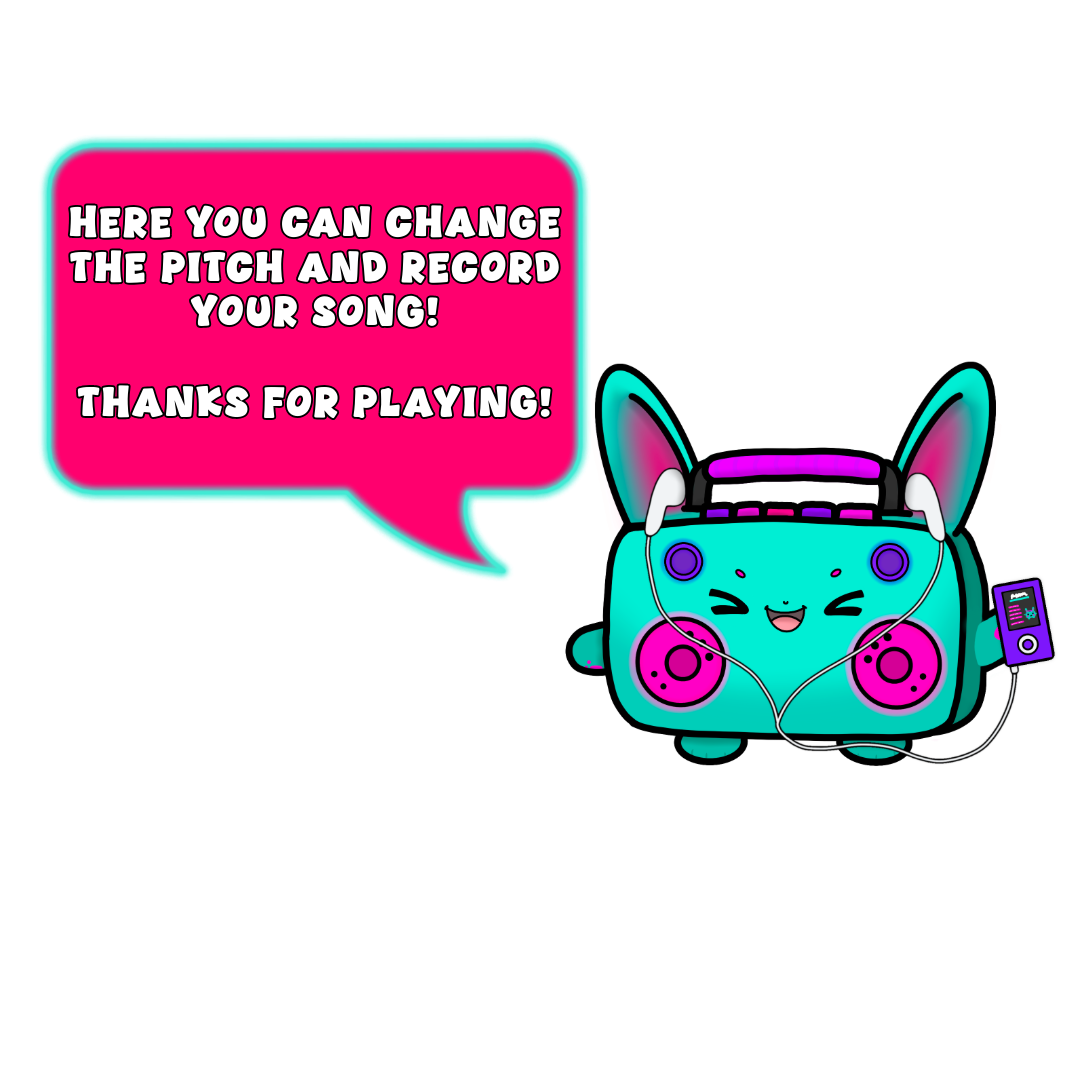
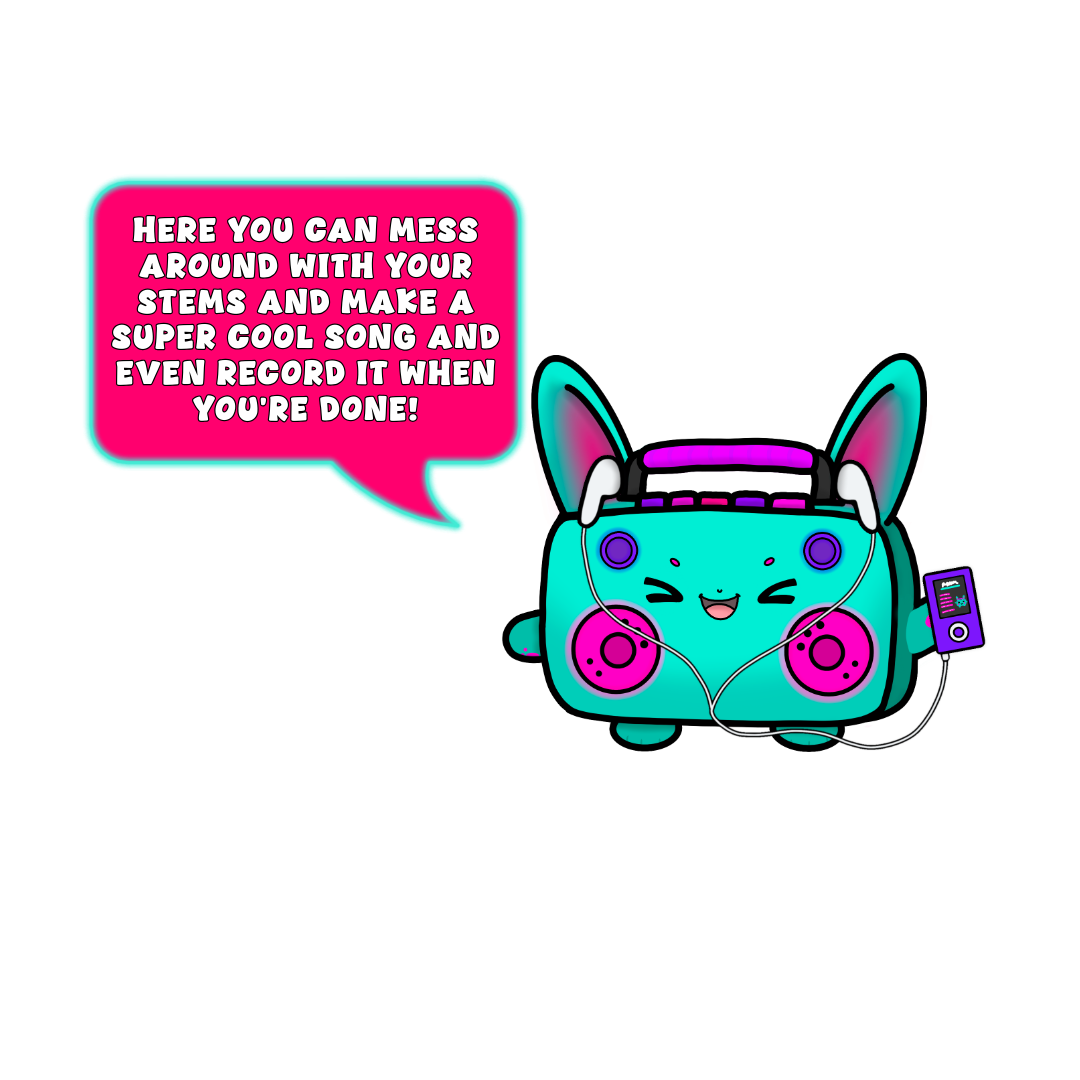
Co-authored-by: llaurenmoreno <llaurenmoreno@users.noreply.github.com>

Changed region(s): [[0.0306, 0.1222, 0.9778, 0.7333]]

diff --git a/CYOAUdio/sketch1.js b/CYOAUdio/sketch1.js
@@ -33,6 +33,7 @@ let boombox2;
 let titleBg;
 let instrumentBg;
 let state = 0; // 0: Title, 1: Instructions, 2: Guitar, 3: Drums, 4: Piano, 5: Mix
+let isAllPlaying = false;
 let bbpiano, bbdrums, bbguitar,bbmaster,bbintro;
 
 let totalMovement = 100;
@@ -125,9 +126,9 @@ function setup() {
   recorder.setInput(masterGain);
   soundFile = new p5.SoundFile();
 
-  masterVolumeSlider = createSlider(0, 1, 0.5, 0.01);
+  masterVolumeSlider = createSlider(0, 1, 1.0, 0.01);
   masterVolumeSlider.size(500);
-  masterVolumeSlider.input(() => snapSlider(masterVolumeSlider, 0.5));
+  masterVolumeSlider.input(() => snapSlider(masterVolumeSlider, 1.0));
   masterVolumeSlider.hide();
 
   masterPitchSlider = createSlider(0.5, 1.5, 1.0, 0.01);
@@ -197,6 +198,7 @@ function draw() {
     text("Bunnybox\nStudio", width / 2, scaleY(200));
     textSize(18);
     text("Move your mouse or press any key to begin", width / 2, scaleY(370));
+    resetMixSettings();
   }
 
   if (state === 1) {
@@ -204,24 +206,28 @@ function draw() {
     fill(255);
     textSize(64);
     text("Instructions", width / 2, scaleY(100));
-    image(bbintro, scaleX(400), scaleY(100), scaleX(700), scaleY(700));
+    image(bbintro, scaleX(400), scaleY(100), scaleX(650), scaleY(650));
+    resetMixSettings();
 
   }
 
   if (state === 2) {
     drawInstrumentPage("Drums", drumUI);
     image(bbdrums, scaleX(525), scaleY(50), scaleX(900), scaleY(900));
+    resetMixSettings();
   }
 
   if (state === 3) {
     drawInstrumentPage("Piano", pianoUI);
     image(bbpiano, scaleX(525), scaleY(50), scaleX(900), scaleY(900));
+    resetMixSettings();
 
   }
 
   if (state === 4) {
     drawInstrumentPage("Guitar", guitarUI);
     image(bbguitar, scaleX(525), scaleY(50), scaleX(900), scaleY(900));
+    resetMixSettings();
 
   }
 
@@ -230,7 +236,7 @@ function draw() {
     textSize(64);
     fill(255);
     text("Mixing Booth", width / 2, scaleY(80));
-    image(bbmaster, scaleX(800), scaleY(125), scaleX(700), scaleY(700));
+    image(bbmaster, scaleX(700), scaleY(125), scaleX(800), scaleY(800));
 
     masterGain.amp(masterVolumeSlider.value());
 
@@ -323,6 +329,7 @@ function toggleStem(row, soundArray, index, uiArray) {
       }
     }
     soundArray[index].play();
+    soundArray[index].amp(0.5);
     row.playButton.html("Stop");
     row.playing = true;
   } else {
@@ -338,6 +345,7 @@ function toggleIndividualStem(row, sound) {
 
   if (!row.playing) {
     sound.play();
+    sound.amp(0.5);
     row.playButton.html("Stop");
     row.playing = true;
   } else {
@@ -410,6 +418,7 @@ function nextScreen() {
 
 function prevScreen() {
   stopAllSounds();
+  resetMixSettings();
   if (state > 0) state--;
   updateUI();
 }
@@ -428,13 +437,29 @@ function isAnyChecked(uiArray) {
 
 function playAllSelectedStems() {
   userStartAudio();
-  for (let row of mixUI) {
-    if (row.sound) {
-      row.sound.stop();
-      row.sound.play();
-      row.playButton.html("Stop");
-      row.playing = true;
+  if (!isAllPlaying) {
+    // Play all stems
+    for (let row of mixUI) {
+      if (row.sound) {
+        row.sound.stop();
+        row.sound.play();
+        row.playButton.html("Stop");
+        row.playing = true;
+      }
     }
+    playAllButton.html("Stop All Stems");
+    isAllPlaying = true;
+  } else {
+    // Stop all stems
+    for (let row of mixUI) {
+      if (row.sound && row.sound.isPlaying()) {
+        row.sound.stop();
+      }
+      row.playButton.html("Play");
+      row.playing = false;
+    }
+    playAllButton.html("Play All Stems");
+    isAllPlaying = false;
   }
 }
 
@@ -506,6 +531,7 @@ function buildMixingUI() {
     row.gainNode.connect(masterGain);
     row.sound.disconnect();
     row.sound.connect(row.gainNode);
+    row.sound.amp(0.5);
 
     row.playButton = createButton("Play");
     row.playButton.size(70, 40);
@@ -517,10 +543,10 @@ function buildMixingUI() {
     row.label.style('font-family', 'Montserrat, sans-serif');
     row.label.style('font-weight', 'bold');
 
-    row.volSlider = createSlider(0, 1, 0.5, 0.01);
+    row.volSlider = createSlider(0, 1, 1.0, 0.01);
     row.volSlider.position(startX + scaleX(240), startY + scaleY(10) + i * spacing);
     row.volSlider.size(scaleX(120));
-    row.volSlider.input(() => snapSlider(row.volSlider, 0.5));
+    row.volSlider.input(() => snapSlider(row.volSlider, 1.0));
 
     mixUI.push(row);
   }
@@ -552,12 +578,20 @@ function toggleRecording() {
 }
 
 function resetMixSettings() {
-  if (masterVolumeSlider) masterVolumeSlider.value(0.5);
-  if (masterPitchSlider) masterPitchSlider.value(1.0);
+  masterVolumeSlider.value(1.0);
+  masterPitchSlider.value(1.0);
   mixUI.forEach(row => {
-    if (row.volSlider) row.volSlider.value(0.5);
+    row.volSlider.value(1.0);
+    if (row.sound) {
+      row.sound.disconnect();
+      row.sound.connect();
+      row.sound.amp(0.5);
+      row.sound.rate(1.0);
+    }
   });
-  showDialog("Mix Settings Reverted!");
+  // if (state === 5){
+  //   showDialog("Mix Settings Reverted!");
+  // }
 }
 
 function resetProject() {

diff --git a/CYOAUdio/auditorialdiff.html b/CYOAUdio/auditorialdiff.html
@@ -5,7 +5,7 @@
     <script src="https://cdn.jsdelivr.net/npm/p5@1.11.11/lib/addons/p5.sound.min.js"></script>
     <link rel="stylesheet" type="text/css" href="auditorialdiff.css">
     <script src="sketch1.js"></script>
-    <title>Bunny Box Studio</title>
+    <title>BunnyBox Studio</title>
     <meta charset="utf-8">
   </head>
 
